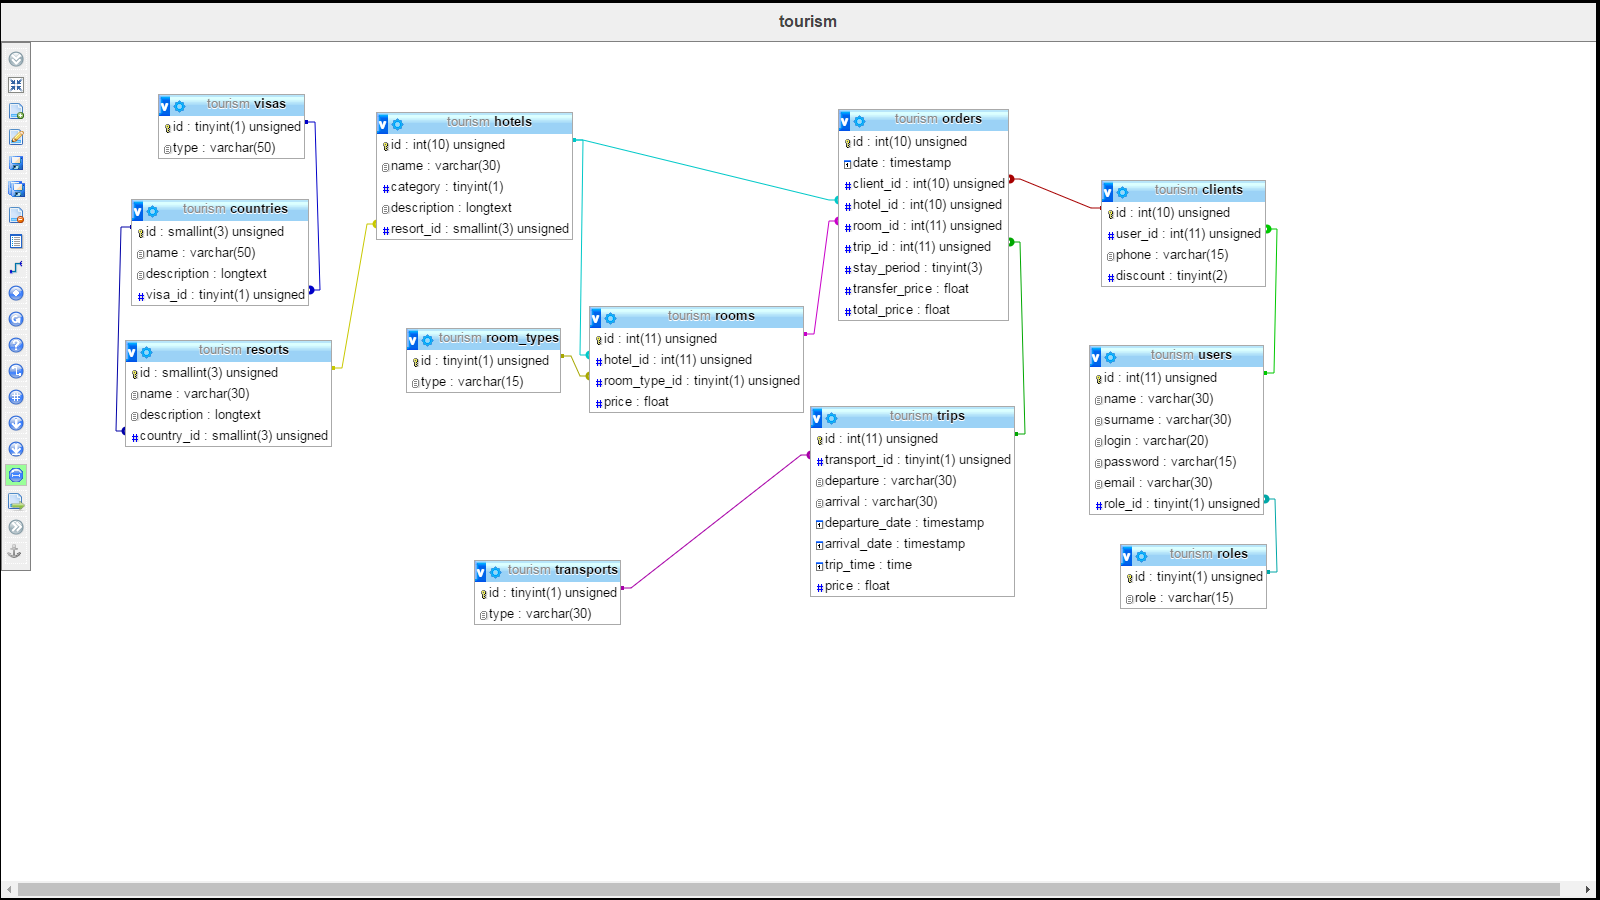
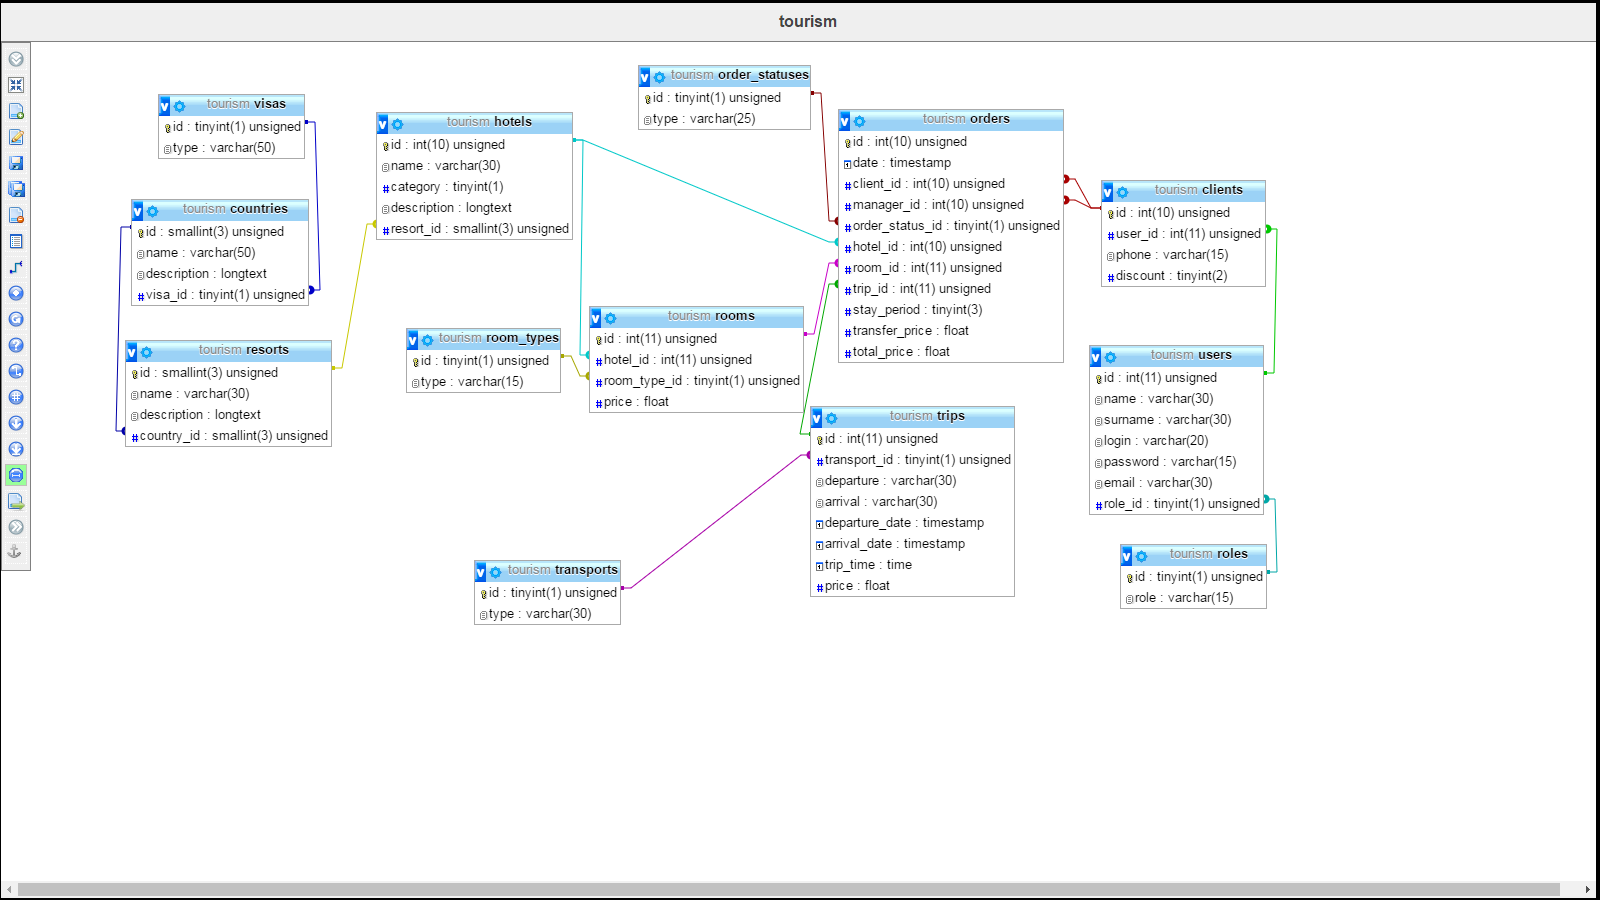
touristic

diff --git a/php/db_install.php b/php/db_install.php
@@ -29,12 +29,20 @@ $queries = array(
                     id INT (10) UNSIGNED NOT NULL AUTO_INCREMENT,
                     date TIMESTAMP NOT NULL,
                     client_id INT (10) UNSIGNED NOT NULL,
+                    manager_id INT (10) UNSIGNED NOT NULL,
+                    order_status_id TINYINT (1) UNSIGNED NOT NULL,
                     hotel_id INT (10) UNSIGNED NOT NULL,
                     room_id INT (11) UNSIGNED NOT NULL,
                     trip_id INT (11) UNSIGNED NOT NULL,
                     stay_period TINYINT (3) NOT NULL,
                     transfer_price FLOAT (6) DEFAULT 0,
                     total_price FLOAT (9) NOT NULL,
+                    PRIMARY KEY (id)
+                    ) Engine = InnoDB CHARACTER SET=UTF8;
+                ',
+                'CREATE TABLE order_statuses (
+                    id TINYINT (1) UNSIGNED NOT NULL AUTO_INCREMENT,
+                    type VARCHAR (25) NOT NULL,
                     PRIMARY KEY (id)
                     ) Engine = InnoDB CHARACTER SET=UTF8;
                 ',
@@ -109,21 +117,28 @@ $queries = array(
                 'ALTER TABLE orders ADD FOREIGN KEY (room_id) REFERENCES rooms (id) ON UPDATE RESTRICT ON DELETE RESTRICT;',
                 'ALTER TABLE orders ADD FOREIGN KEY (hotel_id) REFERENCES hotels (id) ON UPDATE RESTRICT ON DELETE RESTRICT;',
                 'ALTER TABLE orders ADD FOREIGN KEY (client_id) REFERENCES clients (id) ON UPDATE RESTRICT ON DELETE RESTRICT;',
+                'ALTER TABLE orders ADD FOREIGN KEY (manager_id) REFERENCES clients (id) ON UPDATE RESTRICT ON DELETE RESTRICT;',
                 'ALTER TABLE clients ADD FOREIGN KEY (user_id) REFERENCES users (id) ON UPDATE RESTRICT ON DELETE RESTRICT;',
                 'ALTER TABLE users ADD FOREIGN KEY (role_id) REFERENCES roles (id) ON UPDATE RESTRICT ON DELETE RESTRICT;',
                 'ALTER TABLE orders ADD FOREIGN KEY (trip_id) REFERENCES trips (id) ON UPDATE RESTRICT ON DELETE RESTRICT;',
+                'ALTER TABLE orders ADD FOREIGN KEY (order_status_id) REFERENCES order_statuses (id) ON UPDATE RESTRICT ON DELETE RESTRICT;',
                 'ALTER TABLE trips ADD FOREIGN KEY (transport_id) REFERENCES transports (id) ON UPDATE RESTRICT ON DELETE RESTRICT;',
-                'INSERT INTO roles VALUES ( , "admin" );',
-                'INSERT INTO roles VALUES ( , "manager" );',
-                'INSERT INTO roles VALUES ( , "client" );',
-                'INSERT INTO transports VALUES ( , "plain" );',
-                'INSERT INTO transports VALUES ( , "train" );',
-                'INSERT INTO transports VALUES ( , "bus" );',
-                'INSERT INTO transports VALUES ( , "ship" );',
-                'INSERT INTO visas VALUES ( , "not required" );',
-                'INSERT INTO visas VALUES ( , "schengen" );',
-                'INSERT INTO visas VALUES ( , "on arrival" );',
-                'INSERT INTO visas VALUES ( , "prepaid" );'
+                'INSERT INTO roles VALUES ( NULL, "admin" );',
+                'INSERT INTO roles VALUES ( NULL, "manager" );',
+                'INSERT INTO roles VALUES ( NULL, "client" );',
+                'INSERT INTO transports VALUES ( NULL, "plain" );',
+                'INSERT INTO transports VALUES ( NULL, "train" );',
+                'INSERT INTO transports VALUES ( NULL, "bus" );',
+                'INSERT INTO transports VALUES ( NULL, "ship" );',
+                'INSERT INTO visas VALUES ( NULL, "not required" );',
+                'INSERT INTO visas VALUES ( NULL, "schengen" );',
+                'INSERT INTO visas VALUES ( NULL, "on arrival" );',
+                'INSERT INTO visas VALUES ( NULL, "prepaid" );',
+                'INSERT INTO order_statuses VALUES ( NULL, "waiting for payments" );',
+                'INSERT INTO order_statuses VALUES ( NULL, "partially paid" );',
+                'INSERT INTO order_statuses VALUES ( NULL, "paid" );',
+                'INSERT INTO order_statuses VALUES ( NULL, "successfully completed" );',
+                'INSERT INTO order_statuses VALUES ( NULL, "cancelled" );'
 );
 
 $server   = 'localhost';
